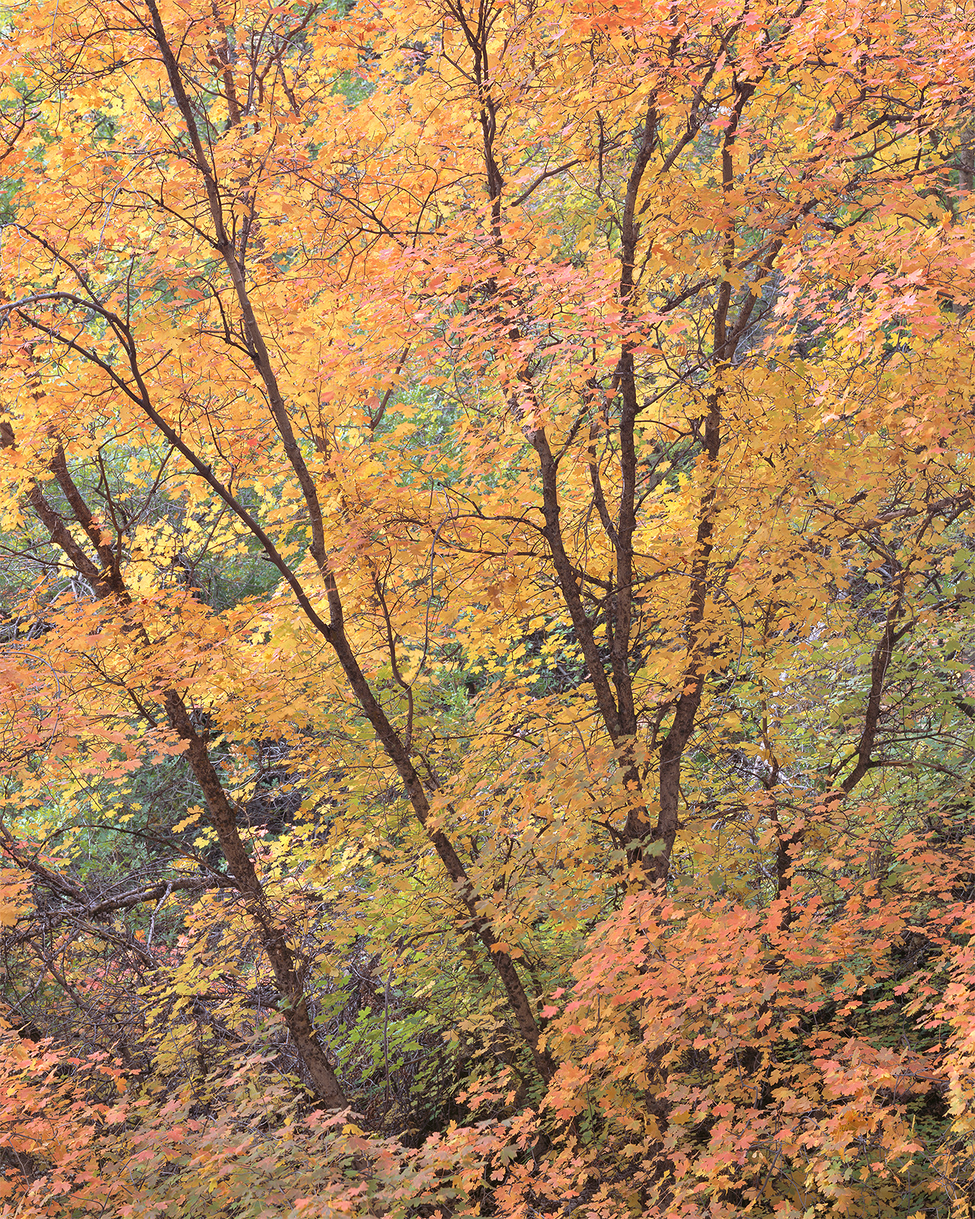
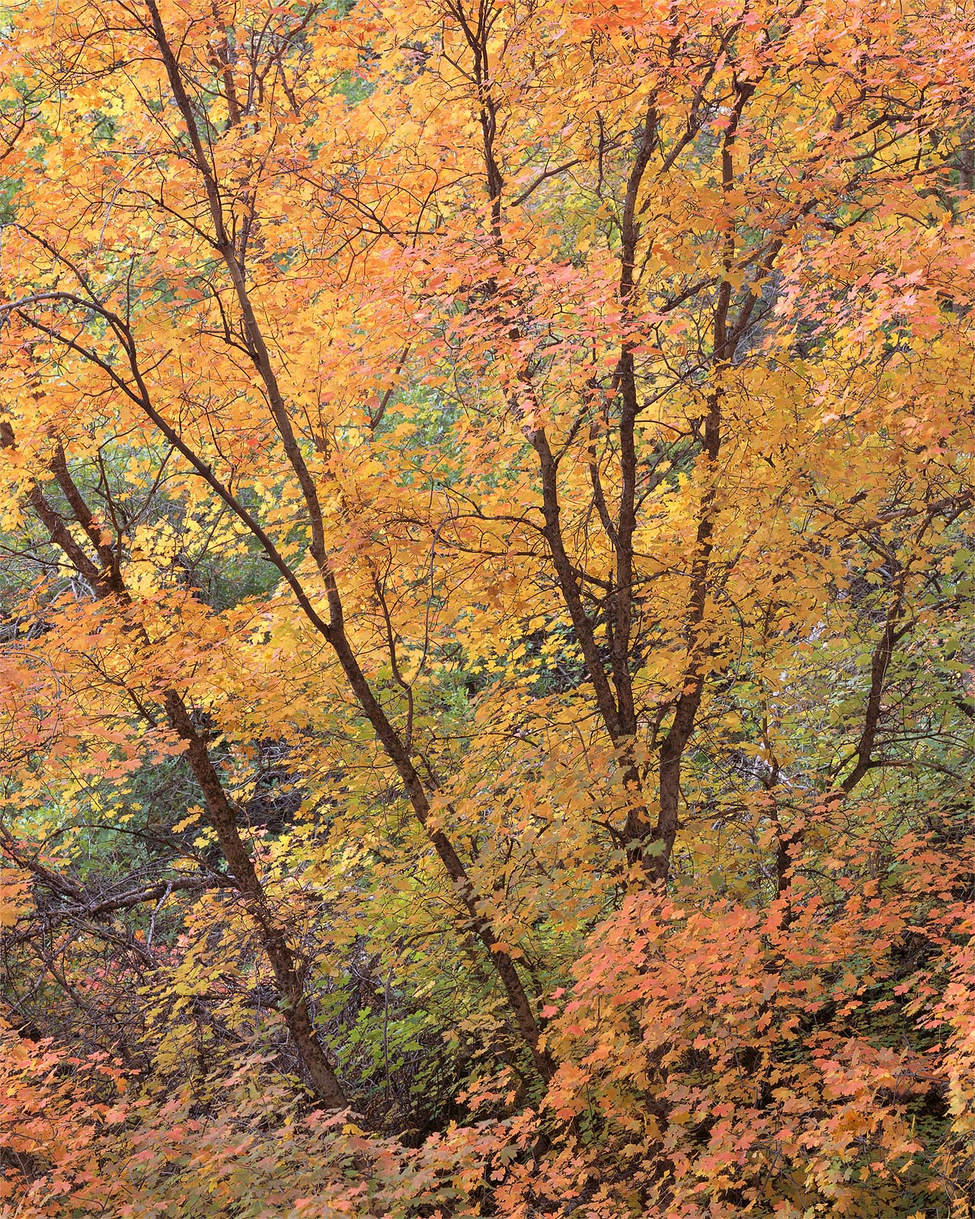
new images

diff --git a/public/portfolios/zion-national-park-autumn/after-the-rain-zion-national-park.html b/public/portfolios/zion-national-park-autumn/after-the-rain-zion-national-park.html
@@ -2,7 +2,7 @@
 <html xmlns="http://www.w3.org/1999/xhtml" lang="en-US">
   <head>
     <meta charset="utf-8">
-    <title>Old Trunk and Maples - Douglas Vincent Photographic Arts</title>
+    <title>After the Rain - Douglas Vincent Photographic Arts</title>
     <meta name="viewport" content="width=device-width, initial-scale=1.0">
     <meta name="referrer" content="origin-when-cross-origin">
     <meta http-equiv="X-UA-Compatible" content="IE=edge">
@@ -12,7 +12,7 @@
      <link rel="stylesheet" href="https://use.typekit.net/avc4wei.css">
     <link href="/css/style.css?v={{ now|date('n.j.y.G.i.s') }}" rel="stylesheet" type="text/css" media="screen">
   </head>
-  <body id="Old Trunk and Maples">
+  <body id="After the Rain">
     
     <div id="top">
   <div id="top-inner">
@@ -114,15 +114,15 @@
       <div class="row">
         <div class="p-main" id="resize">
           <div class="sizing">
-            <img src="/assets/photographs/old-trunk-and-maples-zion-national-park.jpg" alt="Old Trunk and Maples" class="photograph photo1 current" data-width="1280" data-height="1600"/>
-            <img src="/assets/photographs/old-trunk-and-maples-zion-national-park-home.jpg" alt="Old Trunk and Maples" class="photograph photo2" data-width="1280" data-height="1600"/>
-            <img src="/assets/photographs/old-trunk-and-maples-zion-national-park-biz.jpg" alt="Old Trunk and Maples" class="photograph photo3" data-width="1280" data-height="1600"/>
+            <img src="/assets/photographs/after-the-rain-zion-national-park.jpg" alt="After the Rain" class="photograph photo1 current" data-width="2400" data-height="1920"/>
+            <img src="/assets/photographs/after-the-rain-zion-national-park-home.jpg" alt="After the Rain" class="photograph photo2" data-width="2400" data-height="1920"/>
+            <img src="/assets/photographs/after-the-rain-zion-national-park-biz.jpg" alt="After the Rain" class="photograph photo3" data-width="2400" data-height="1920"/>
           </div>
 
           <div class="photoNav">
             <p id="photoNavM" class="nav">
-			  <a class="button gallery prev" href="after-the-rain-zion-national-park.html">❮❮</a>
-              <a class="button gallery next" href="tapestry-in-yellow-zion-national-park.html">❯❯</a>
+			  <a class="button gallery prev" href="luminaries-zion-national-park.html">❮❮</a>
+              <a class="button gallery next" href="old-trunk-and-maples-zion-national-park.html">❯❯</a>
             </p>
             <div class="image-nav">
               <ul>
@@ -136,10 +136,10 @@
 	</div>
 		 <div class="p-side">
           <div class="photo-details">
-            <h2 id="title">Old Trunk and Maples</h2>
-            <p class="location">East Side</p>
+            <h2 id="title">After the Rain</h2>
+            <p class="location">Near Tunnel View</p>
             <p class="place">Zion National Park, 2013</p>
-            <p><a href="#">Print Type</a>: Handmade Cibachrome</p>
+            <p><a href="#">Print Type</a>: Pigment Ink</p>
             <p><a href="#">Edition Type</a>: Limited</p>
 
             <p class="inquire">
@@ -147,8 +147,8 @@
             </p>
 
            <p id="photoNavD" class="nav">
-					    <a class="button gallery prev" href="after-the-rain-zion-national-park.html">❮❮</a>
-              <a class="button gallery next" href="tapestry-in-yellow-zion-national-park.html">❯❯</a>
+					    <a class="button gallery prev" href="luminaries-zion-national-park.html">❮❮</a>
+              <a class="button gallery next" href="old-trunk-and-maples-zion-national-park.html">❯❯</a>
             </p>
  
 

diff --git a/public/portfolios/zion-national-park-autumn/luminaries-zion-national-park.html b/public/portfolios/zion-national-park-autumn/luminaries-zion-national-park.html
@@ -122,7 +122,7 @@
           <div class="photoNav">
             <p id="photoNavM" class="nav">
 			  <a class="button gallery prev" href="leaves-relaxing-in-stream-zion-national-park.html">❮❮</a>
-              <a class="button gallery next" href="old-and-new-zion-national-park.html">❯❯</a>
+              <a class="button gallery next" href="after-the-rain-zion-national-park.html">❯❯</a>
             </p>
             <div class="image-nav">
               <ul>
@@ -148,7 +148,7 @@
 
            <p id="photoNavD" class="nav">
 					    <a class="button gallery prev" href="leaves-relaxing-in-stream-zion-national-park.html">❮❮</a>
-              <a class="button gallery next" href="old-and-new-zion-national-park.html">❯❯</a>
+              <a class="button gallery next" href="after-the-rain-zion-national-park.html">❯❯</a>
             </p>
  
 

diff --git a/public/portfolios/zion-national-park-autumn/index.html b/public/portfolios/zion-national-park-autumn/index.html
@@ -245,9 +245,9 @@
     
 
       <div class="thumb">
-        <a href="/portfolios/zion-national-park-autumn/old-and-new-zion-national-park.html">
-          <img src="/assets/photographs/thumbs/old-and-new-zion-national-park.jpg" alt="Old and New">
-          <h4>Old and New</h4>
+        <a href="/portfolios/zion-national-park-autumn/after-the-rain-zion-national-park.html">
+          <img src="/assets/photographs/thumbs/after-the-rain-zion-national-park.jpg" alt="After the Rain">
+          <h4>After the Rain</h4>
         </a>
       </div>
     
